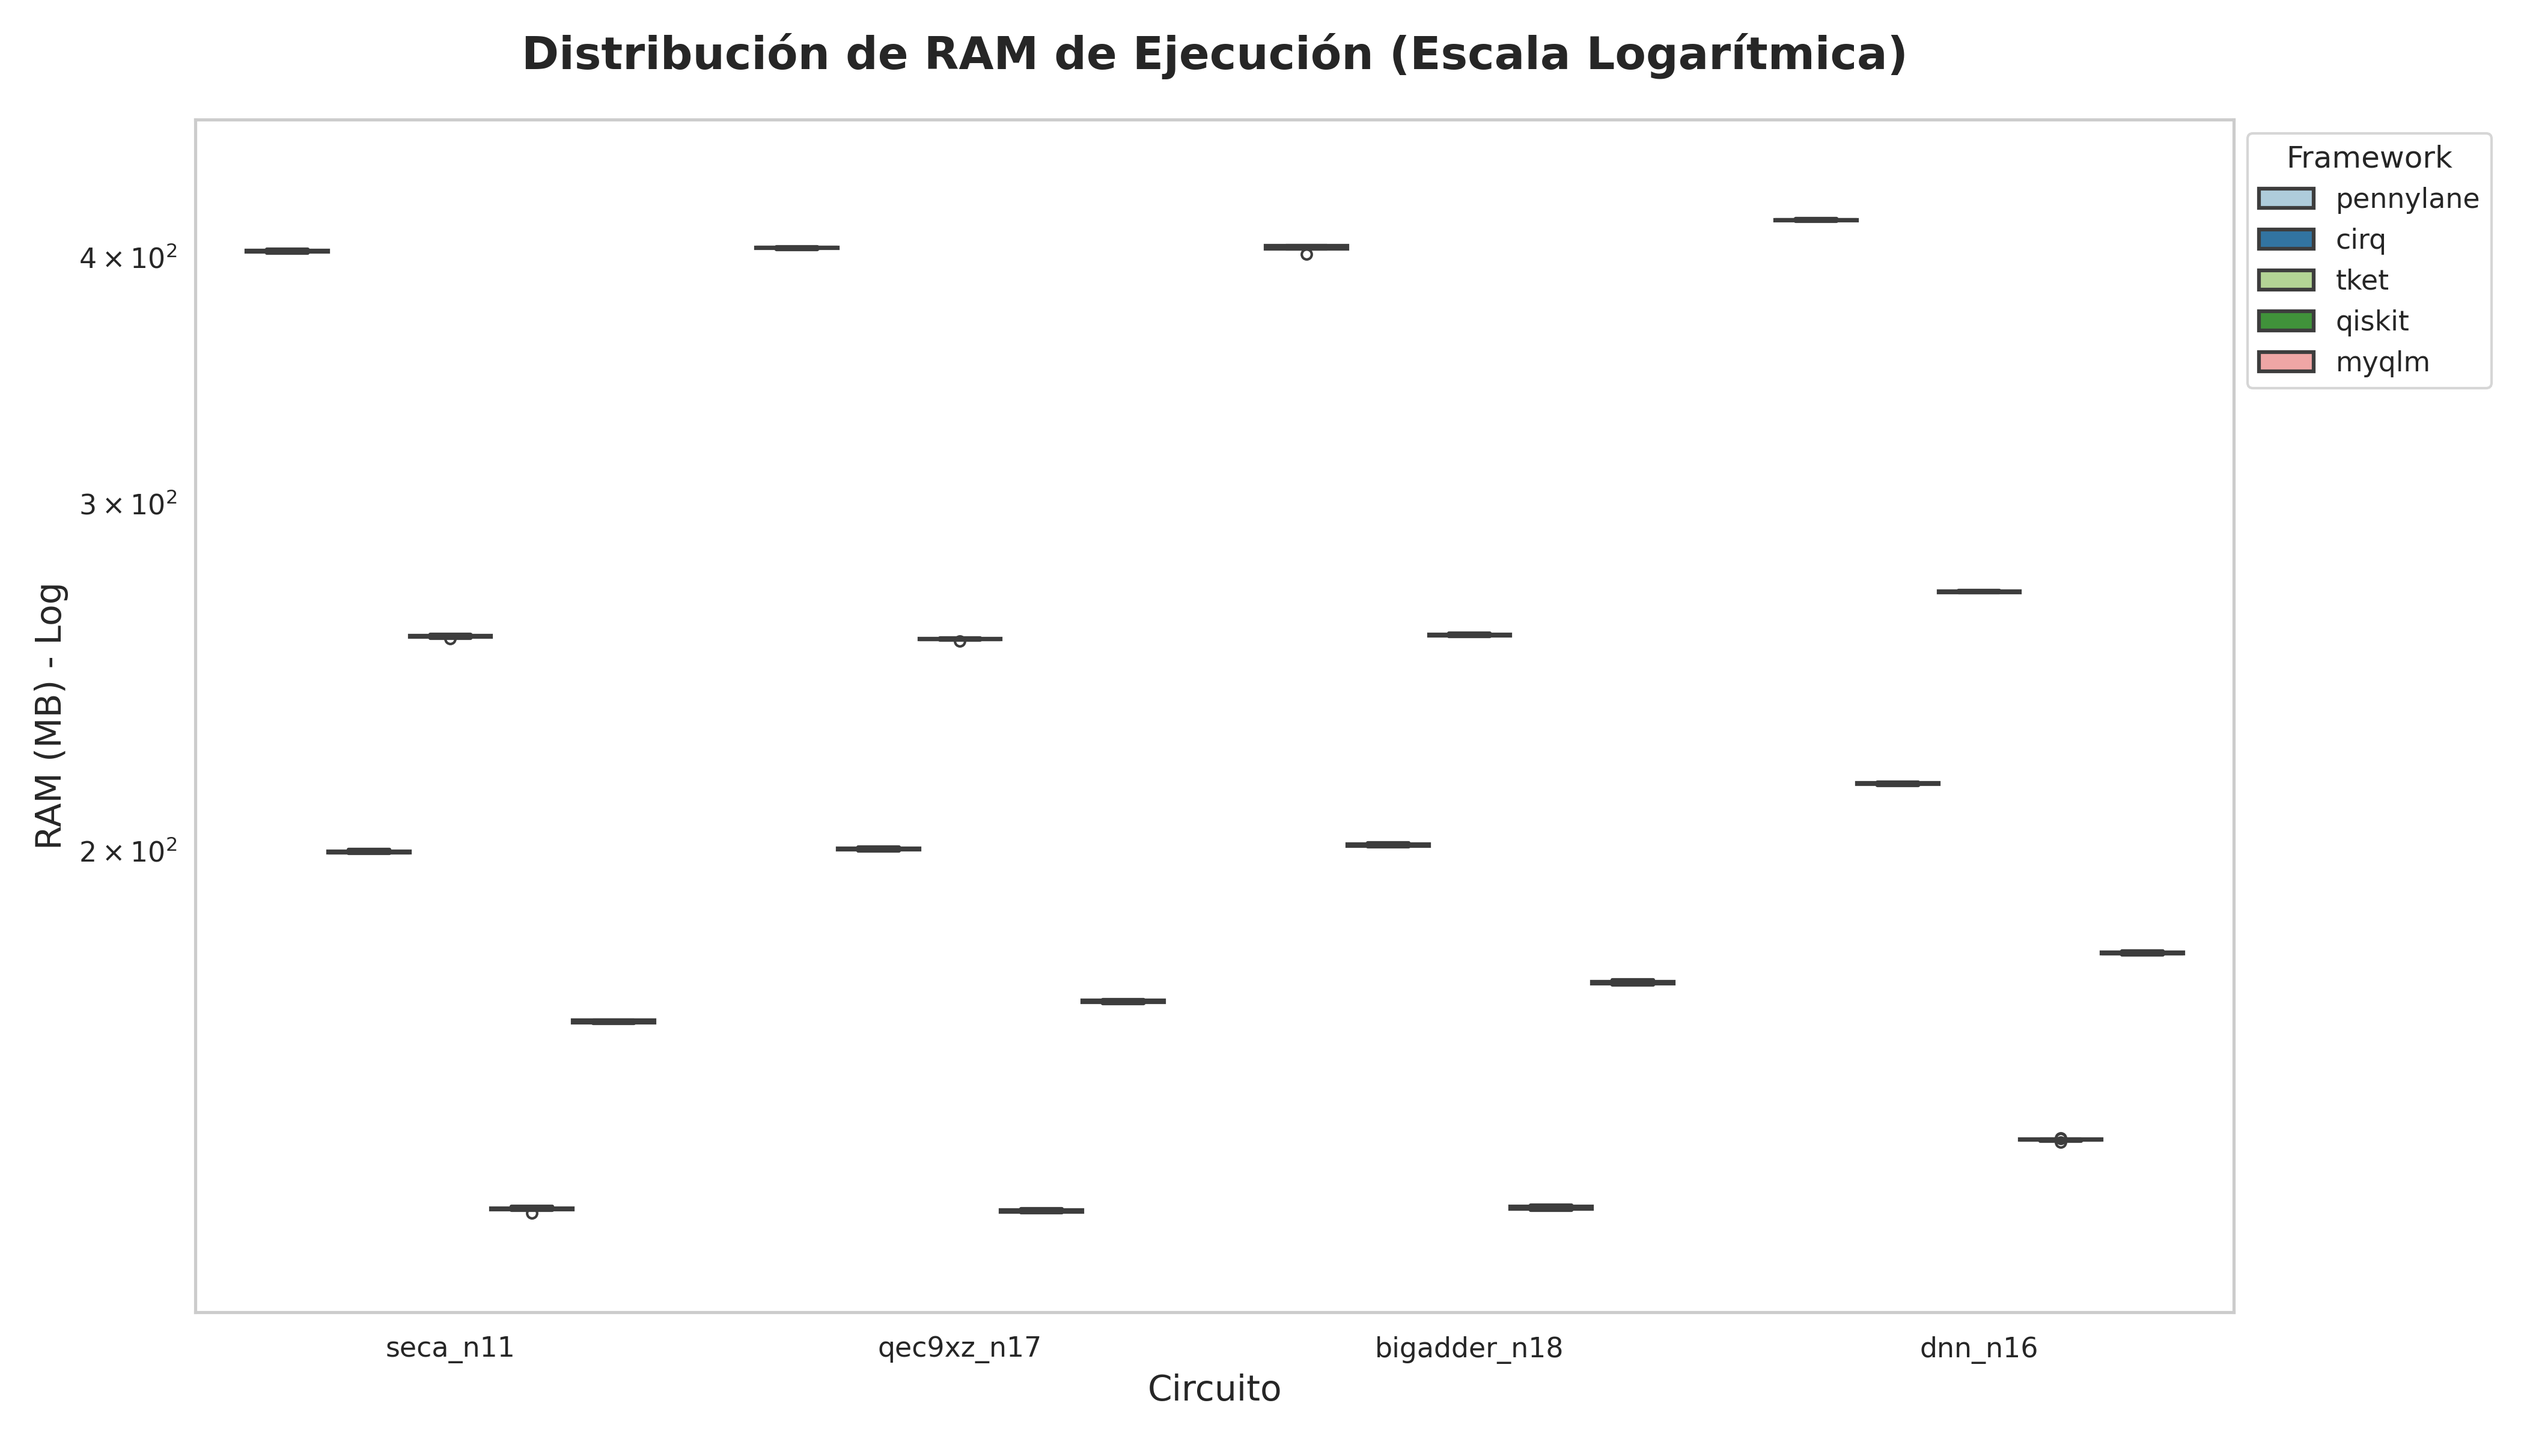
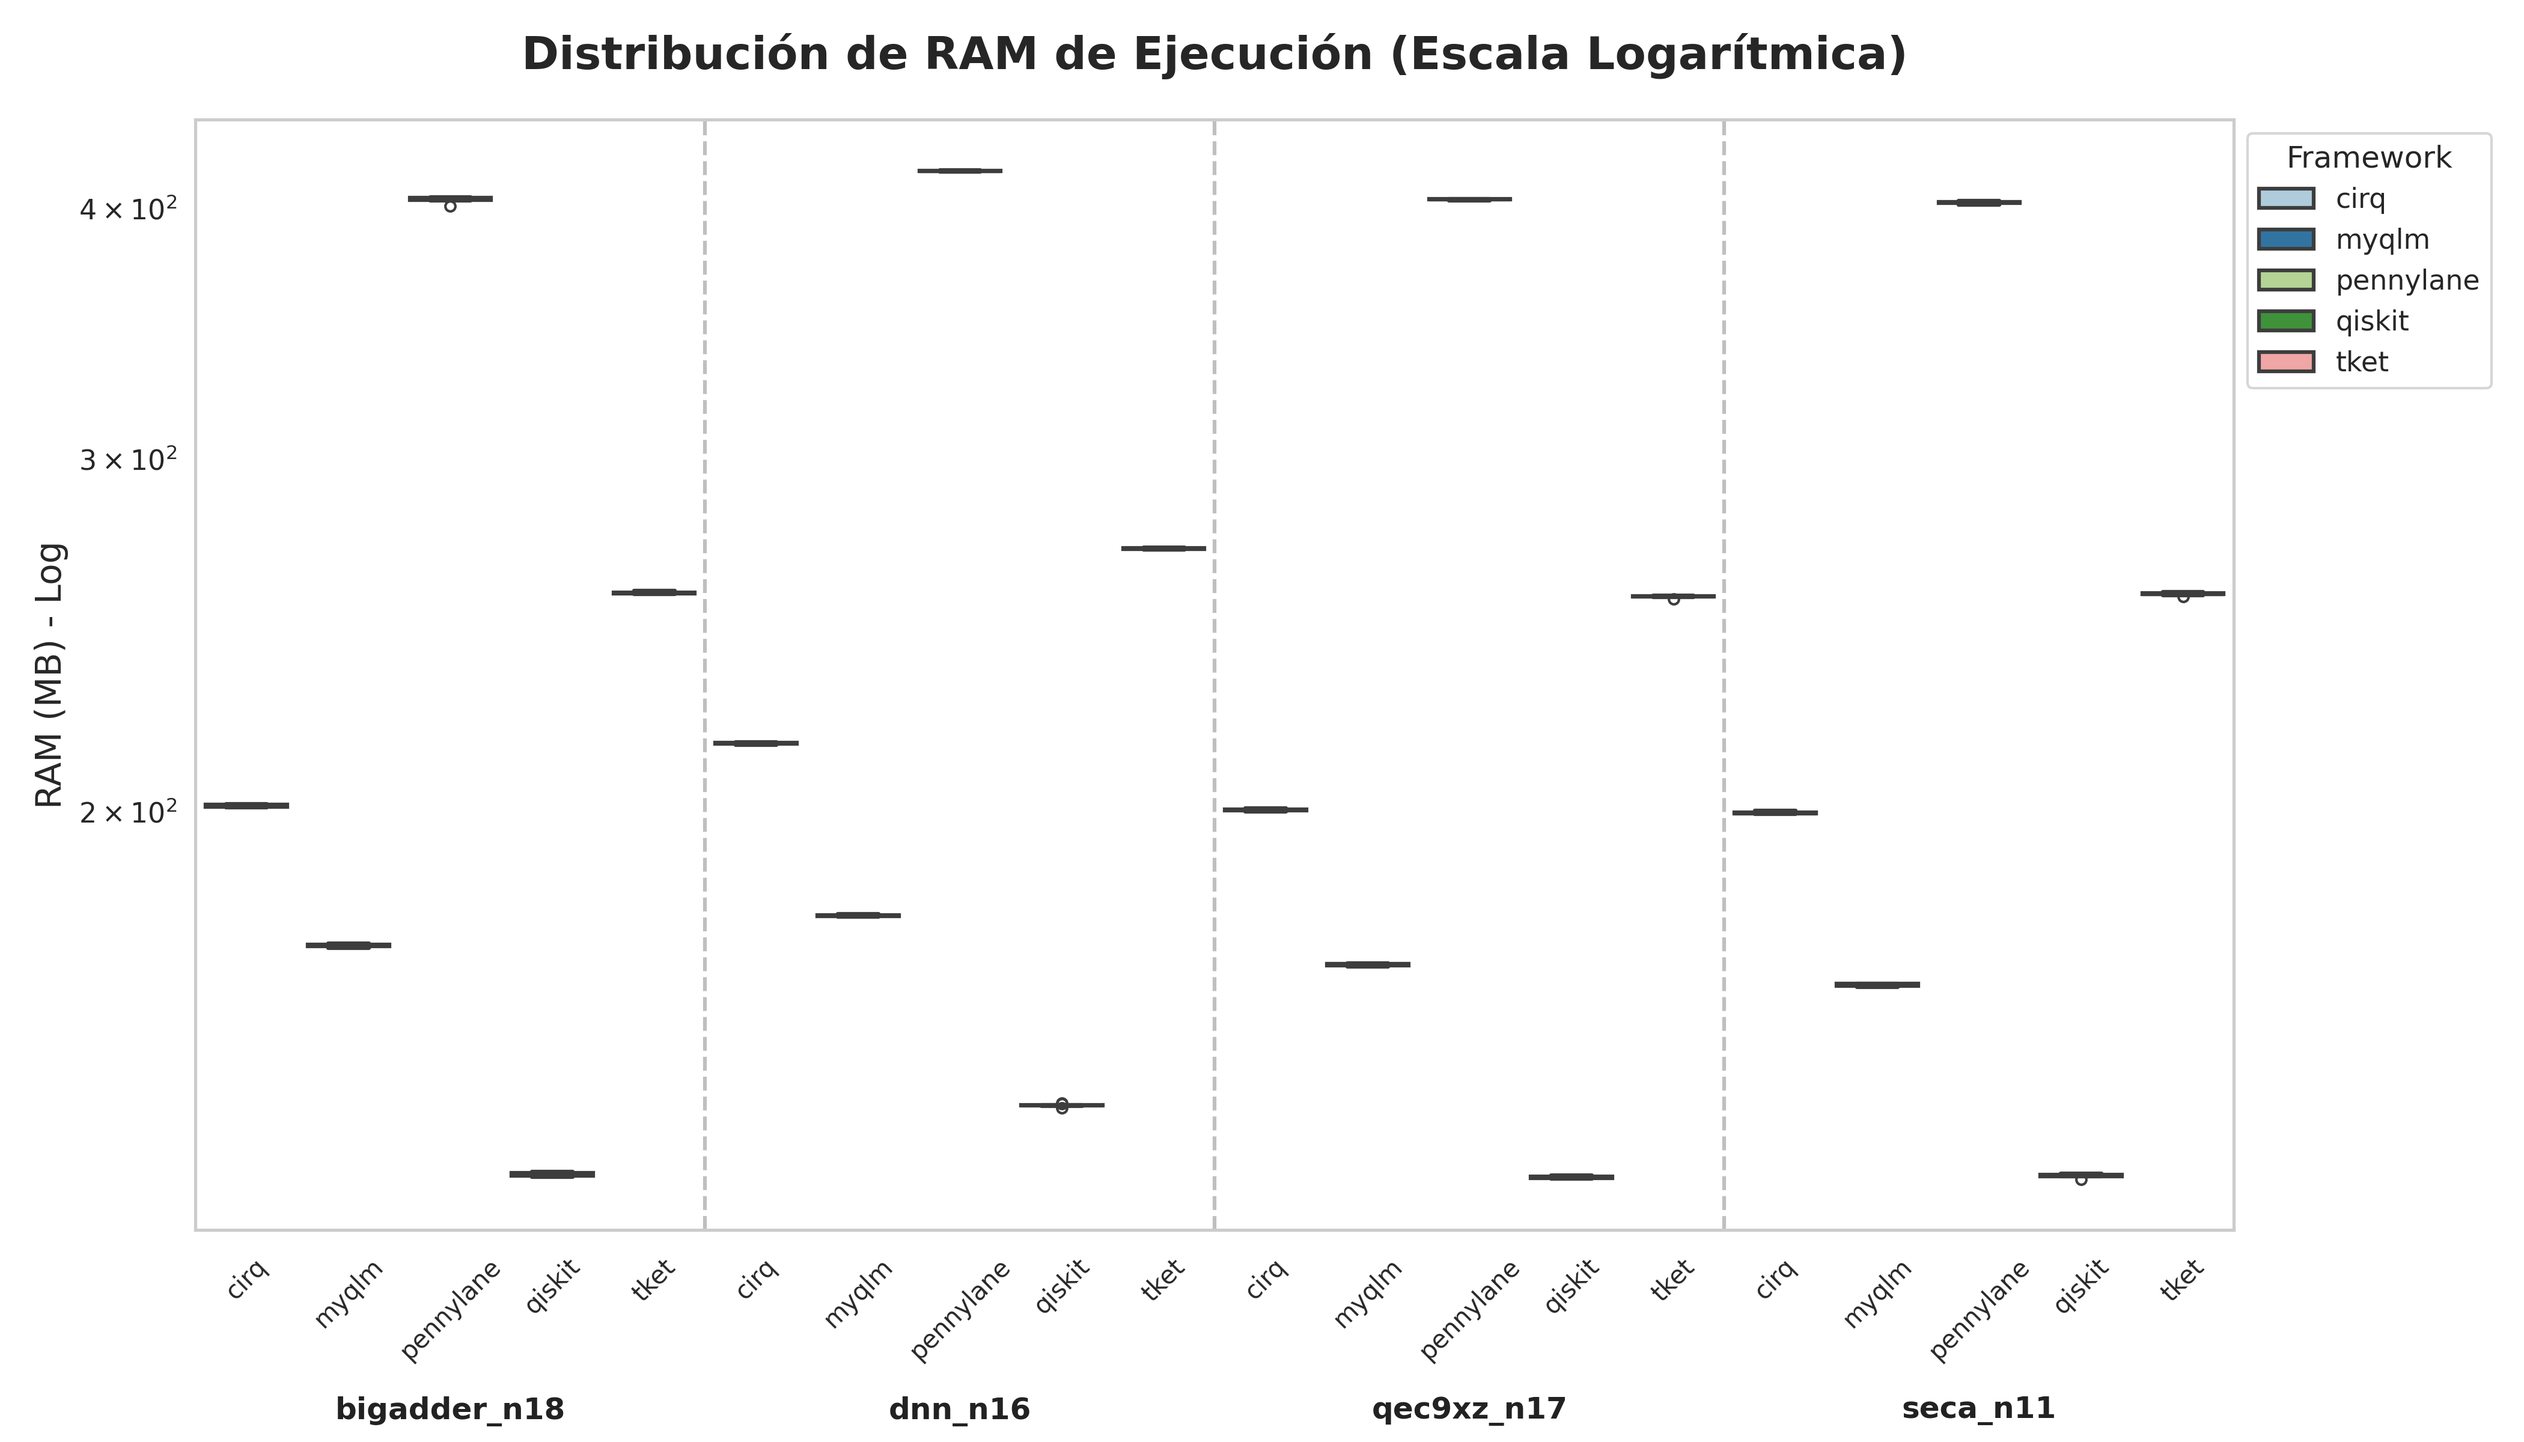
RAM medio arreglado

diff --git a/graficar_results.py b/graficar_results.py
@@ -269,6 +269,11 @@ def plot_boxplot_time(df):
     # Mantenemos la escala logarítmica para visualizar mejor las diferencias
     chart.set_yscale("log")
 
+    # --- LÍNEAS DISCONTINUAS SEPARADORAS ---
+    num_circuitos = len(df["CIRCUIT"].unique())
+    for i in range(num_circuitos - 1):
+        ax.axvline(x=i + 0.5, color='gray', linestyle='--', alpha=0.5)
+
     # Títulos y Etiquetas
     plt.title("Distribución del Tiempo de Ejecución (Escala Logarítmica)", fontsize=18, fontweight='bold', pad=20)
     plt.xlabel("Circuito", fontsize=14)
@@ -290,40 +295,69 @@ def plot_boxplot_RAM(df):
     Genera un diagrama de caja y bigotes para la distribución de RAM.
     """
     if df.empty:
-        print("No hay datos para graficar el boxplot de tiempo.")
+        print("No hay datos para graficar el boxplot de RAM.")
         return
 
     sns.set_theme(style="whitegrid")
     fig, ax = plt.subplots(figsize=(14, 8))
 
+    # --- ORDENAR Y CREAR EJE X COMBINADO ---
+    df_sorted = df.sort_values(by=["CIRCUIT", "FRAMEWORK"])
+    
+    df_sorted["COMBINED"] = df_sorted["CIRCUIT"] + "|" + df_sorted["FRAMEWORK"]
+
     # --- CREAR DIAGRAMA DE CAJA Y BIGOTES ---
     chart = sns.boxplot(
-        data=df,
-        x="CIRCUIT",       # Eje X: Circuitos
-        y="RAM_MEAN",     # Eje Y: Distribución del tiempo de las 10 iteraciones
-        hue="FRAMEWORK",   # Agrupación por color para cada framework
-        palette="Paired",  # Misma paleta de colores
-        linewidth=1.5,     # Grosor de las líneas de la caja y bigotes
-        fliersize=4,       # Tamaño de los puntos para los outliers
+        data=df_sorted,
+        x="COMBINED",
+        y="RAM_MEAN",
+        hue="FRAMEWORK",
+        palette="Paired",
+        dodge=False,
+        linewidth=1.5,
+        fliersize=4,
         ax=ax
     )
 
     # --- ESCALA LOGARÍTMICA ---
     chart.set_yscale("log")
 
-    # Títulos y Etiquetas
+    # --- ETIQUETAS DE FRAMEWORKS (Eje X) ---
+    unique_combined = df_sorted["COMBINED"].unique()
+    # Separamos por el símbolo "|" y cogemos la parte derecha (el framework)
+    labels = [val.split("|")[1] for val in unique_combined]
+    ax.set_xticks(range(len(labels)))
+    ax.set_xticklabels(labels, rotation=45, ha='center', fontsize=10)
+
+    # --- ETIQUETAS DE CIRCUITOS Y LÍNEAS SEPARADORAS ---
+    unique_circuits = df_sorted["CIRCUIT"].unique()
+    start = 0
+    for circuit in unique_circuits:
+        count = len(df_sorted[df_sorted["CIRCUIT"] == circuit]["COMBINED"].unique())
+        end = start + count
+        center = (start + (end - 1)) / 2
+        
+        ax.text(center, -0.15, circuit, ha='center', va='top', 
+                transform=ax.get_xaxis_transform(), 
+                fontsize=12, fontweight='bold', color='#222222')
+        
+        if end < len(unique_combined):
+            ax.axvline(x=end - 0.5, color='gray', linestyle='--', alpha=0.5)
+            
+        start = end
+
+    # Títulos y Ejes
     plt.title("Distribución de RAM de Ejecución (Escala Logarítmica)", fontsize=18, fontweight='bold', pad=20)
-    plt.xlabel("Circuito", fontsize=14)
+    plt.xlabel("")
     plt.ylabel("RAM (MB) - Log", fontsize=14)
     
     # Leyenda
     plt.legend(title="Framework", title_fontsize='12', fontsize='11', loc='upper left', bbox_to_anchor=(1, 1))
 
     # Ajuste de márgenes
-    plt.margins(y=0.1)
+    plt.subplots_adjust(bottom=0.20)
     
     plt.tight_layout()
-    # Guardar la imagen con el nuevo nombre
     plt.savefig(OUTPUT_IMAGE_BOXPLOT_RAM, dpi=300)
     print(f"\nGráfica de boxplot de RAM guardada en: {os.path.abspath(OUTPUT_IMAGE_BOXPLOT_RAM)}")
 
@@ -353,6 +387,11 @@ def plot_boxplot_CPU(df):
     # --- ESCALA LOGARÍTMICA ---
     # Mantenemos la escala logarítmica para visualizar mejor las diferencias
     chart.set_yscale("log")
+
+    # --- LÍNEAS DISCONTINUAS SEPARADORAS ---
+    num_circuitos = len(df["CIRCUIT"].unique())
+    for i in range(num_circuitos - 1):
+        ax.axvline(x=i + 0.5, color='gray', linestyle='--', alpha=0.5)
 
     # Títulos y Etiquetas
     plt.title("Distribución de CPU de Ejecución (Escala Logarítmica)", fontsize=18, fontweight='bold', pad=20)
